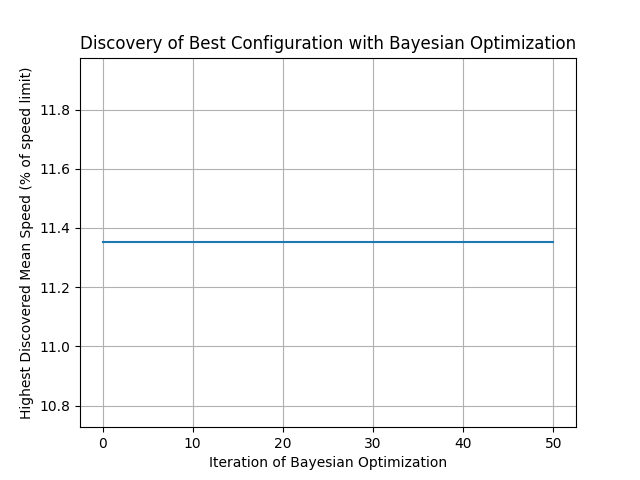
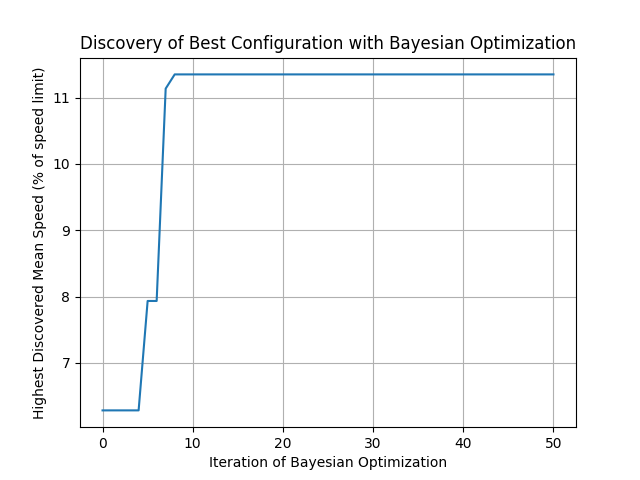
using random intiial positions

diff --git a/xdraft/emulator.py b/xdraft/emulator.py
@@ -109,21 +109,23 @@ class emu():
             return output
 
         user_function = UserFunctionWrapper(partial_call)
-        x_init = np.array([np.ones(len(to_optimize))])*0.1
+
+        design = RandomDesign(ParameterSpace(to_optimize))
+        x_init = design.get_samples(1)
         y_init = partial_call(x_init)
 
         bo = GPBayesianOptimization(variables_list=to_optimize,
                                     X=x_init, Y=y_init,batch_size=1)
         bo.run_optimization(user_function, iterations)
 
-        best_per_it = np.minimum.accumulate(bo.loop_state.Y)
-        best_result = np.min(bo.loop_state.Y)
-        best_config = bo.loop_state.X[np.where(bo.loop_state.Y == best_result)]
-        return best_result,best_config,best_per_it,bo.loop_state
+        best_per_it = np.maximum.accumulate(-1*bo.loop_state.Y)
+        best_result = np.max(-1*bo.loop_state.Y)
+        best_config = bo.loop_state.X[np.argmax(-1*bo.loop_state.Y)]
+        return best_result,best_config,best_per_it,bo.loop_state.X,bo.loop_state.Y*-1
 
 
 if __name__ == '__main__':
-    picklename = "emulator_next.pkl"
+    picklename = "emulator_test_many_iterations.pkl"
     explore_iterations = 400
     optimize_iterations = 50
     from_pickle = True
@@ -144,10 +146,12 @@ if __name__ == '__main__':
     #ax.plot(xs, ys)
     #plt.show()
 
-    best_result,best_config,best_per_it, loop_state = e.optimise(INITIAL_PARTIAL_VARIABLES, iterations=optimize_iterations)
+    best_result,best_config,best_per_it, loop_x,loop_y = e.optimise(INITIAL_PARTIAL_VARIABLES, iterations=optimize_iterations)
 
-    xs = range(optimize_iterations + 1)
-    ys = -100*best_per_it
+    xs = range(optimize_iterations+1)
+    ys = 100*best_per_it
+    print(best_config)
+    print(runner.call_sim(params=np.append(best_config,INITIAL_PARTIAL_VARIABLES),name="test"))
 
     fig, ax = plt.subplots()
     ax.plot(xs, ys)
@@ -161,7 +165,7 @@ if __name__ == '__main__':
 
     fig, ax = plt.subplots()
 
-    ys = loop_state.X
+    ys = loop_x
     newys = []
     for y in ys:
         sum = np.sum(y)
